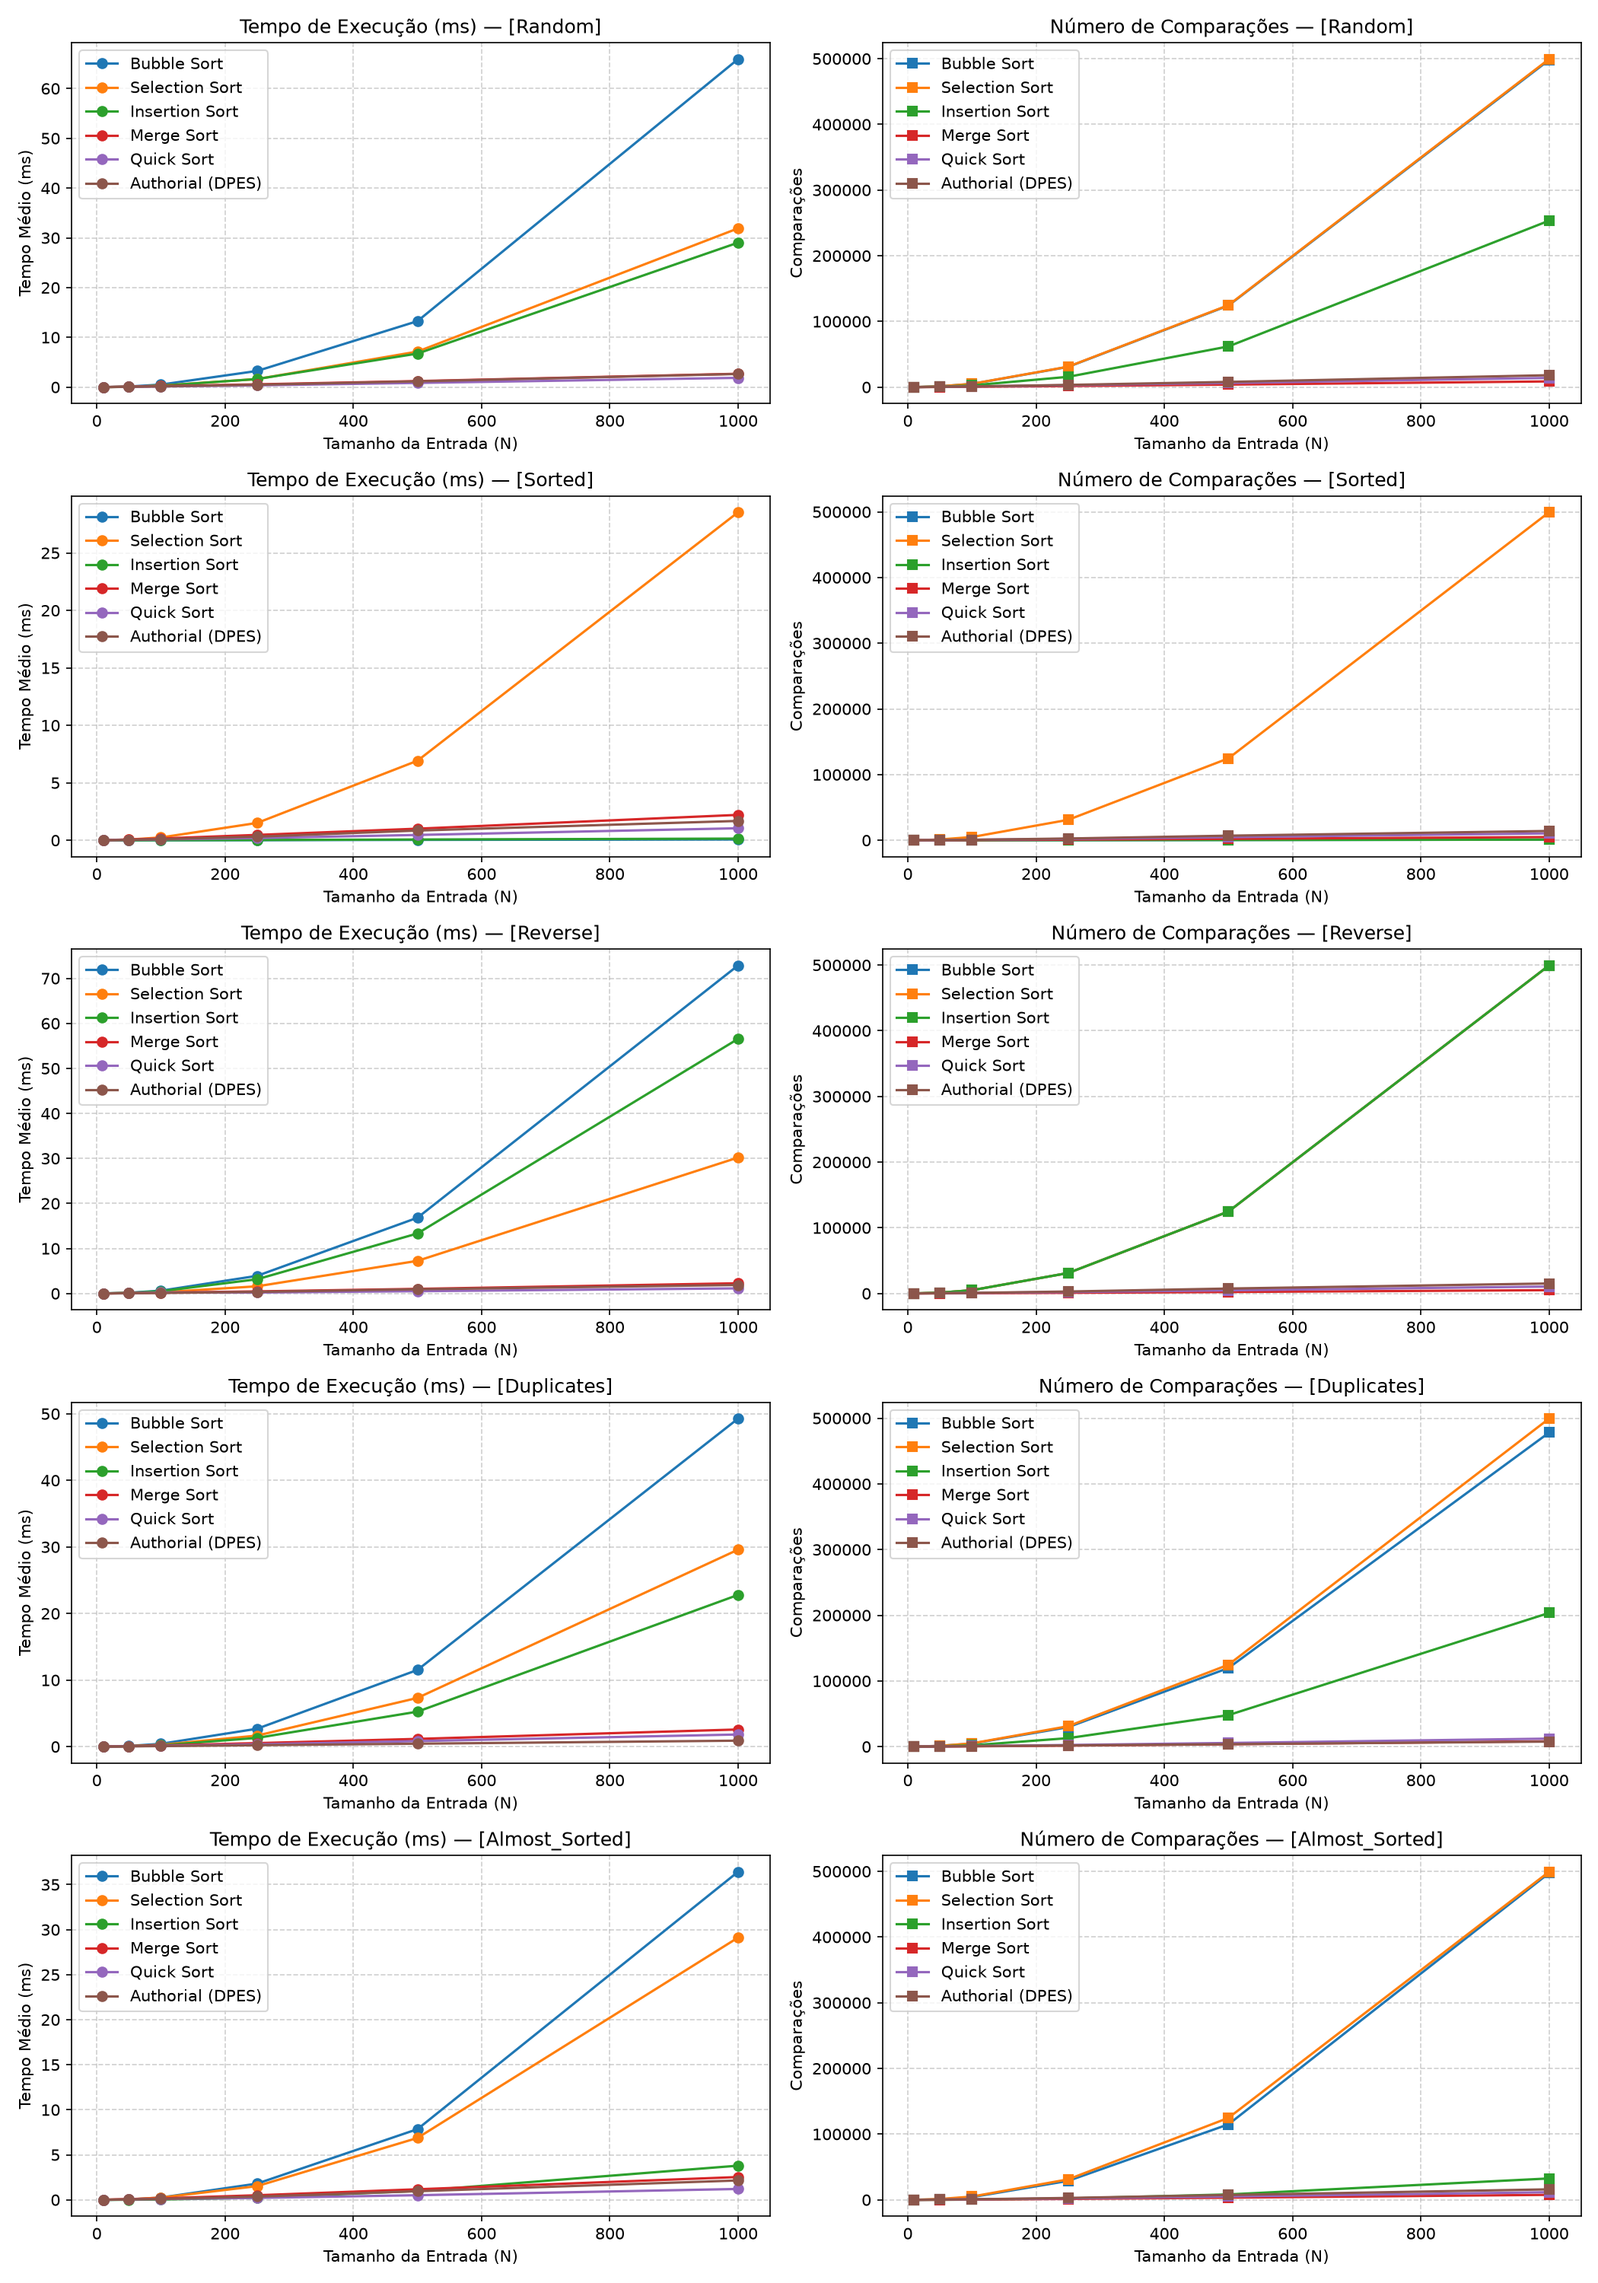
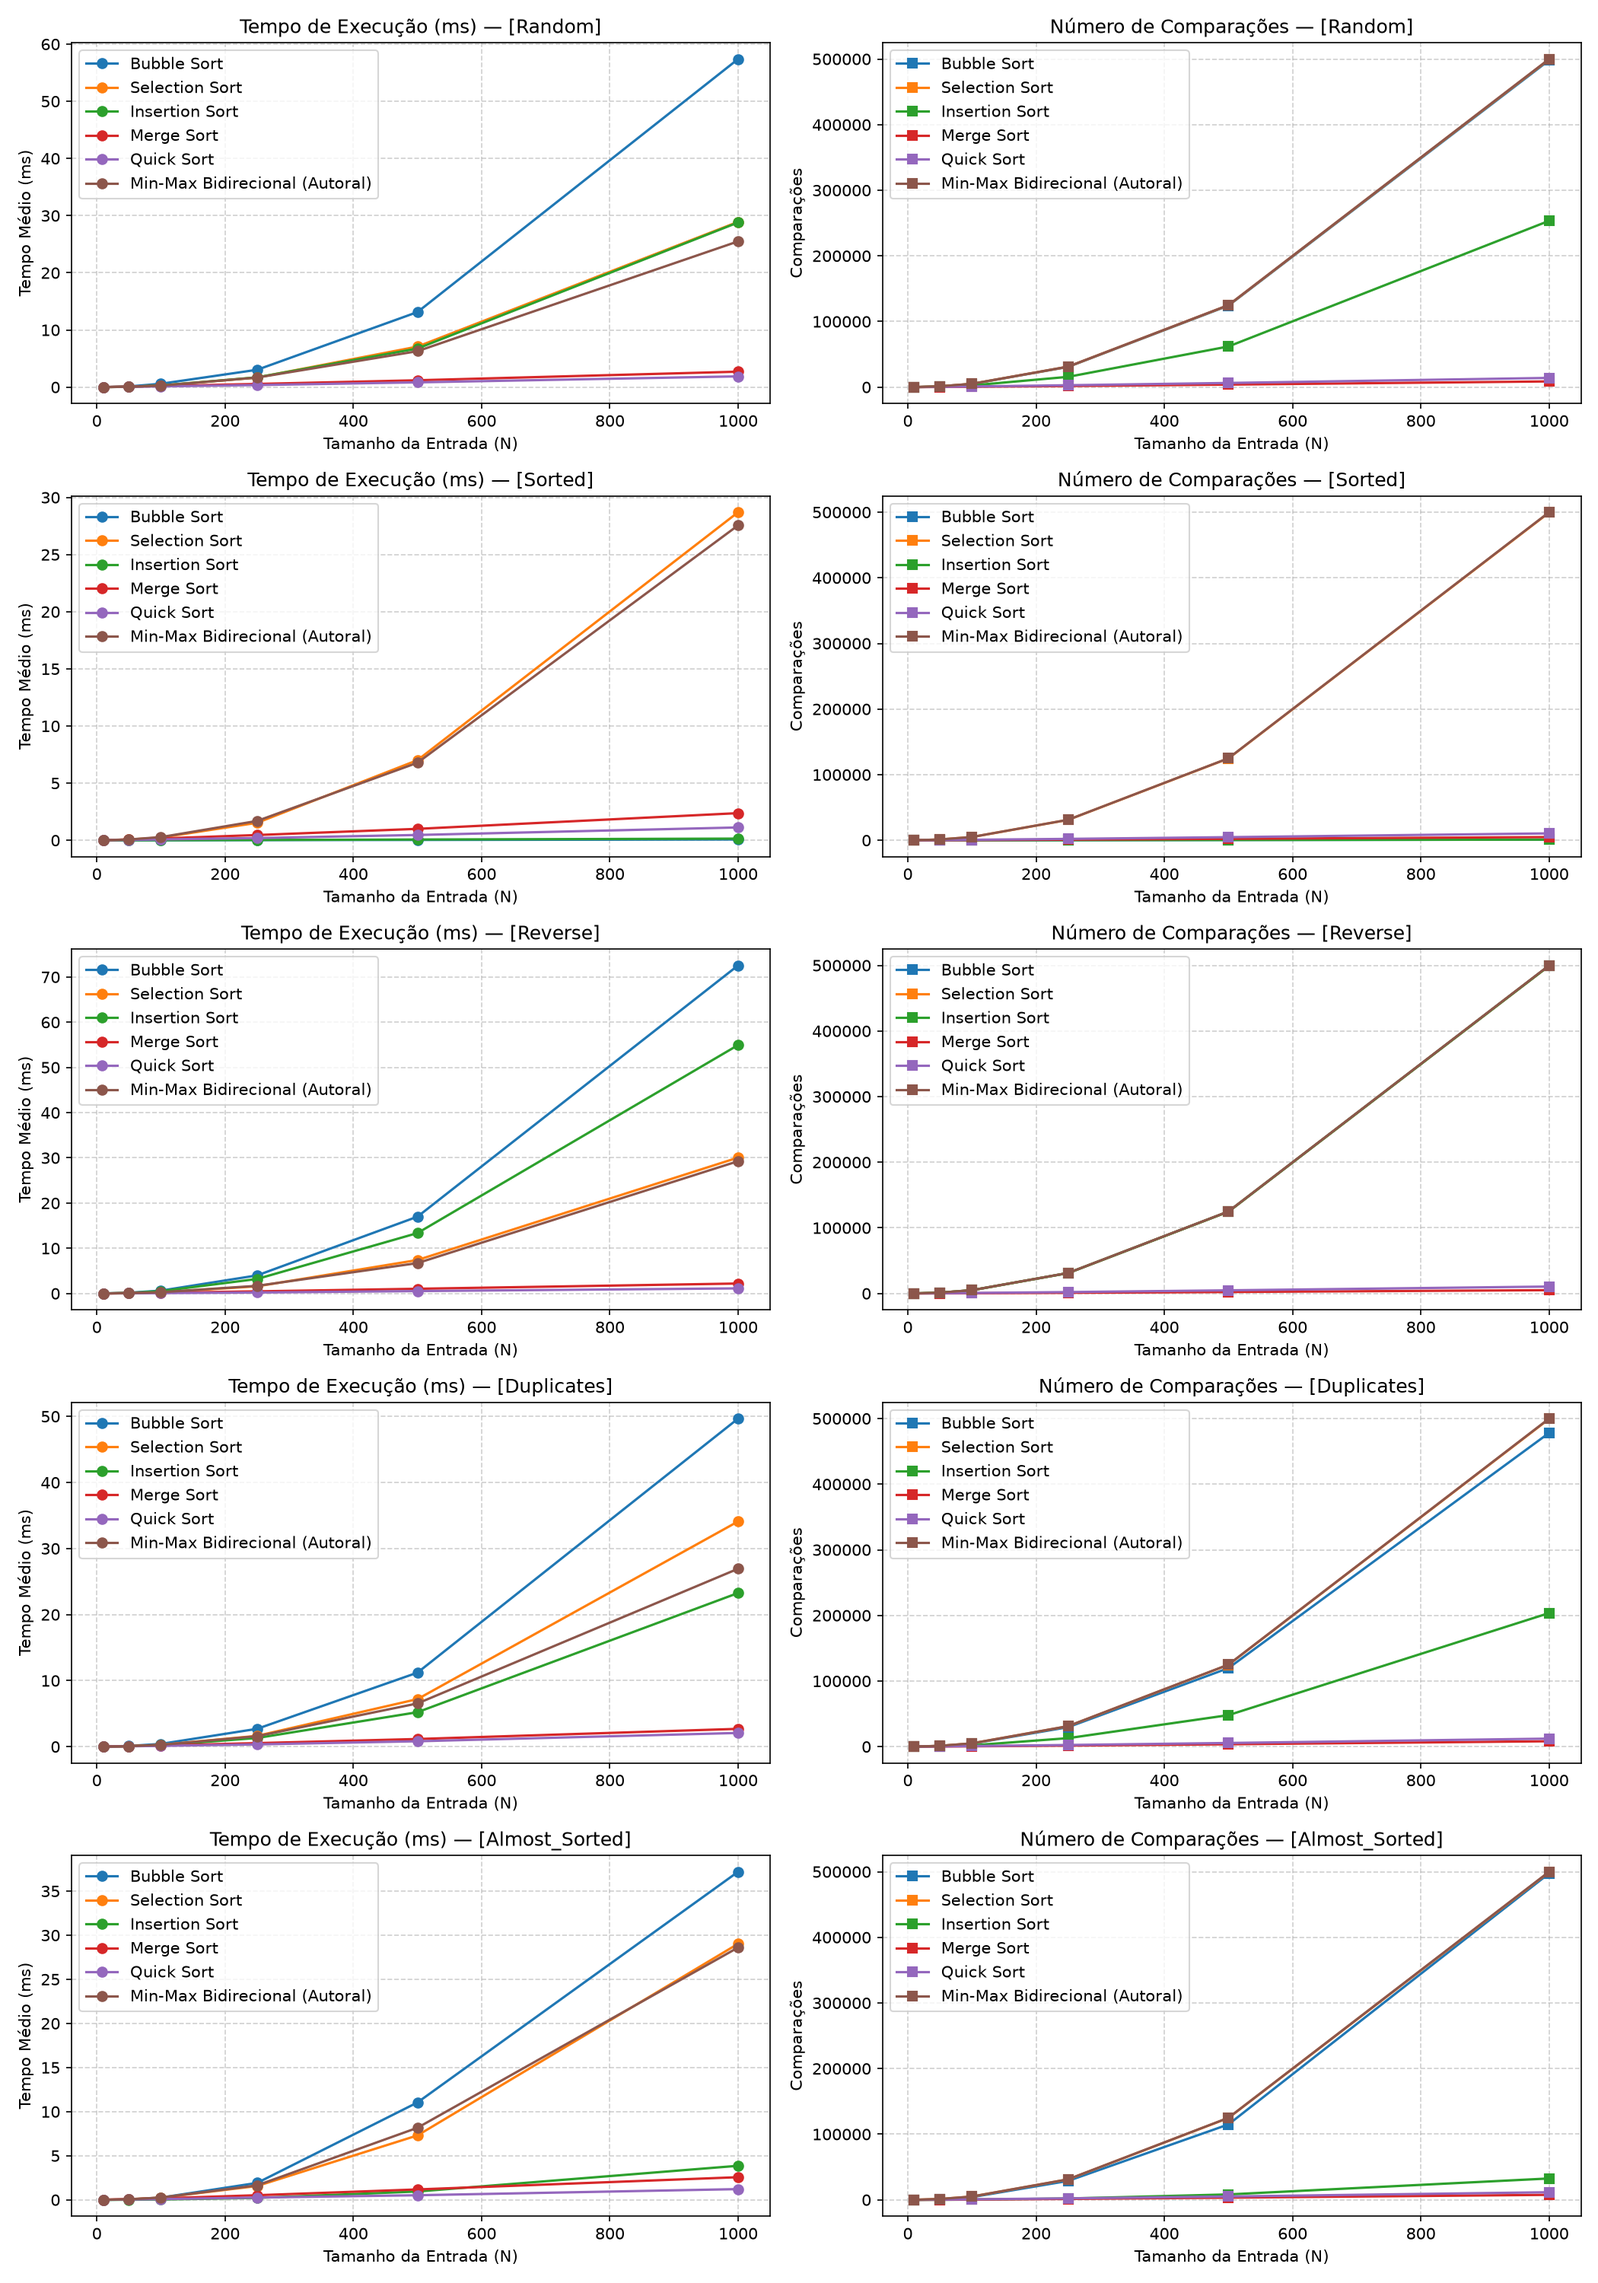
Integra Min-Max Bidirecional ao benchmark

diff --git a/python/student_template.py b/python/student_template.py
@@ -14,7 +14,7 @@ import unittest
 
 def my_authorial_sort(arr: List[Any]) -> Tuple[List[Any], int, int]:
     """
-    Algoritmo Autoral: Min-Max Bidirecional Otimizado (com Early Exit)
+    Algoritmo Autoral: Min-Max Bidirecional Robusto
     """
     a = list(arr)
     n = len(a)
@@ -27,9 +27,8 @@ def my_authorial_sort(arr: List[Any]) -> Tuple[List[Any], int, int]:
     while left < right:
         min_idx = left
         max_idx = left
-        swapped = False
 
-        # Varredura simultânea para encontrar o mínimo e o máximo no intervalo atual
+        # Varredura para encontrar o menor e o maior no intervalo [left, right]
         for i in range(left + 1, right + 1):
             comps += 1
             if a[i] < a[min_idx]:
@@ -39,25 +38,22 @@ def my_authorial_sort(arr: List[Any]) -> Tuple[List[Any], int, int]:
             if a[i] > a[max_idx]:
                 max_idx = i
 
-        # Se o máximo estava na posição 'left' e vamos mover o mínimo para lá, atualizamos o max_idx para que não se perca.
-        if max_idx == left:
-            max_idx = min_idx
+        # Se o elemento mínimo já está na posição 'left' e o máximo na 'right',
+        # e o intervalo interno estiver ordenado, podemos otimizar ou apenas prosseguir.
 
-        # Posiciona o menor elemento na esquerda
+        # Posiciona o menor elemento na extremidade esquerda
         if min_idx != left:
             a[left], a[min_idx] = a[min_idx], a[left]
             moves += 2
-            swapped = True
+            # Se o max_idx estava exatamente na posição 'left' que acabamos de trocar,
+            # ele foi movido para a posição 'min_idx'. Atualizamos o rastreio dele.
+            if max_idx == left:
+                max_idx = min_idx
 
-        # Posiciona o maior elemento na direita
+        # Posiciona o maior elemento na extremidade direita
         if max_idx != right:
             a[right], a[max_idx] = a[max_idx], a[right]
             moves += 2
-            swapped = True
-
-        # Otimização de Parada Antecipada (Early Exit):Se nenhuma troca ocorreu nessa passada, a lista já está totalmente ordenada.
-        if not swapped:
-            break
 
         left += 1
         right -= 1

diff --git a/python/benchmark.py b/python/benchmark.py
@@ -14,7 +14,7 @@ import matplotlib
 matplotlib.use("Agg")
 import matplotlib.pyplot as plt
 
-from authorial import dpes_sort
+from student_template import my_authorial_sort
 from classical import (
     bubble_sort,
     insertion_sort,
@@ -164,7 +164,7 @@ def main():
         "Insertion Sort": insertion_sort,
         "Merge Sort": merge_sort,
         "Quick Sort": quick_sort,
-        "Authorial (DPES)": dpes_sort,
+        "Min-Max Bidirecional (Autoral)": my_authorial_sort,
     }
 
     sizes = [10, 50, 100, 250, 500, 1000]
